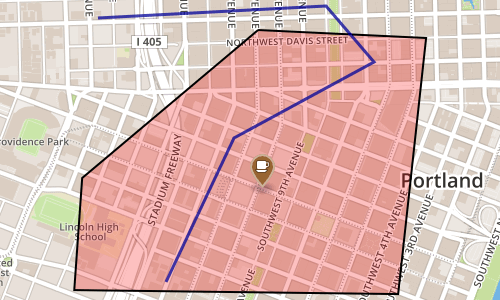
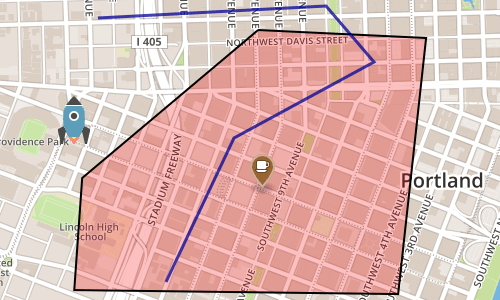
add custom marker to auto-fit example

Changed region(s): [[0.09, 0.33, 0.18, 0.48]]

diff --git a/README.md b/README.md
@@ -136,7 +136,7 @@ let map = MapboxStaticMap(
     mapID: <your map ID>,
     size: CGSize(width: 500, height: 300),
     accessToken: <your API token>,
-    overlays: [path, GeoJSONOverlay, markerOverlay],
+    overlays: [path, GeoJSONOverlay, markerOverlay, customMarker],
     autoFitFeatures: true)
 )
 ```
